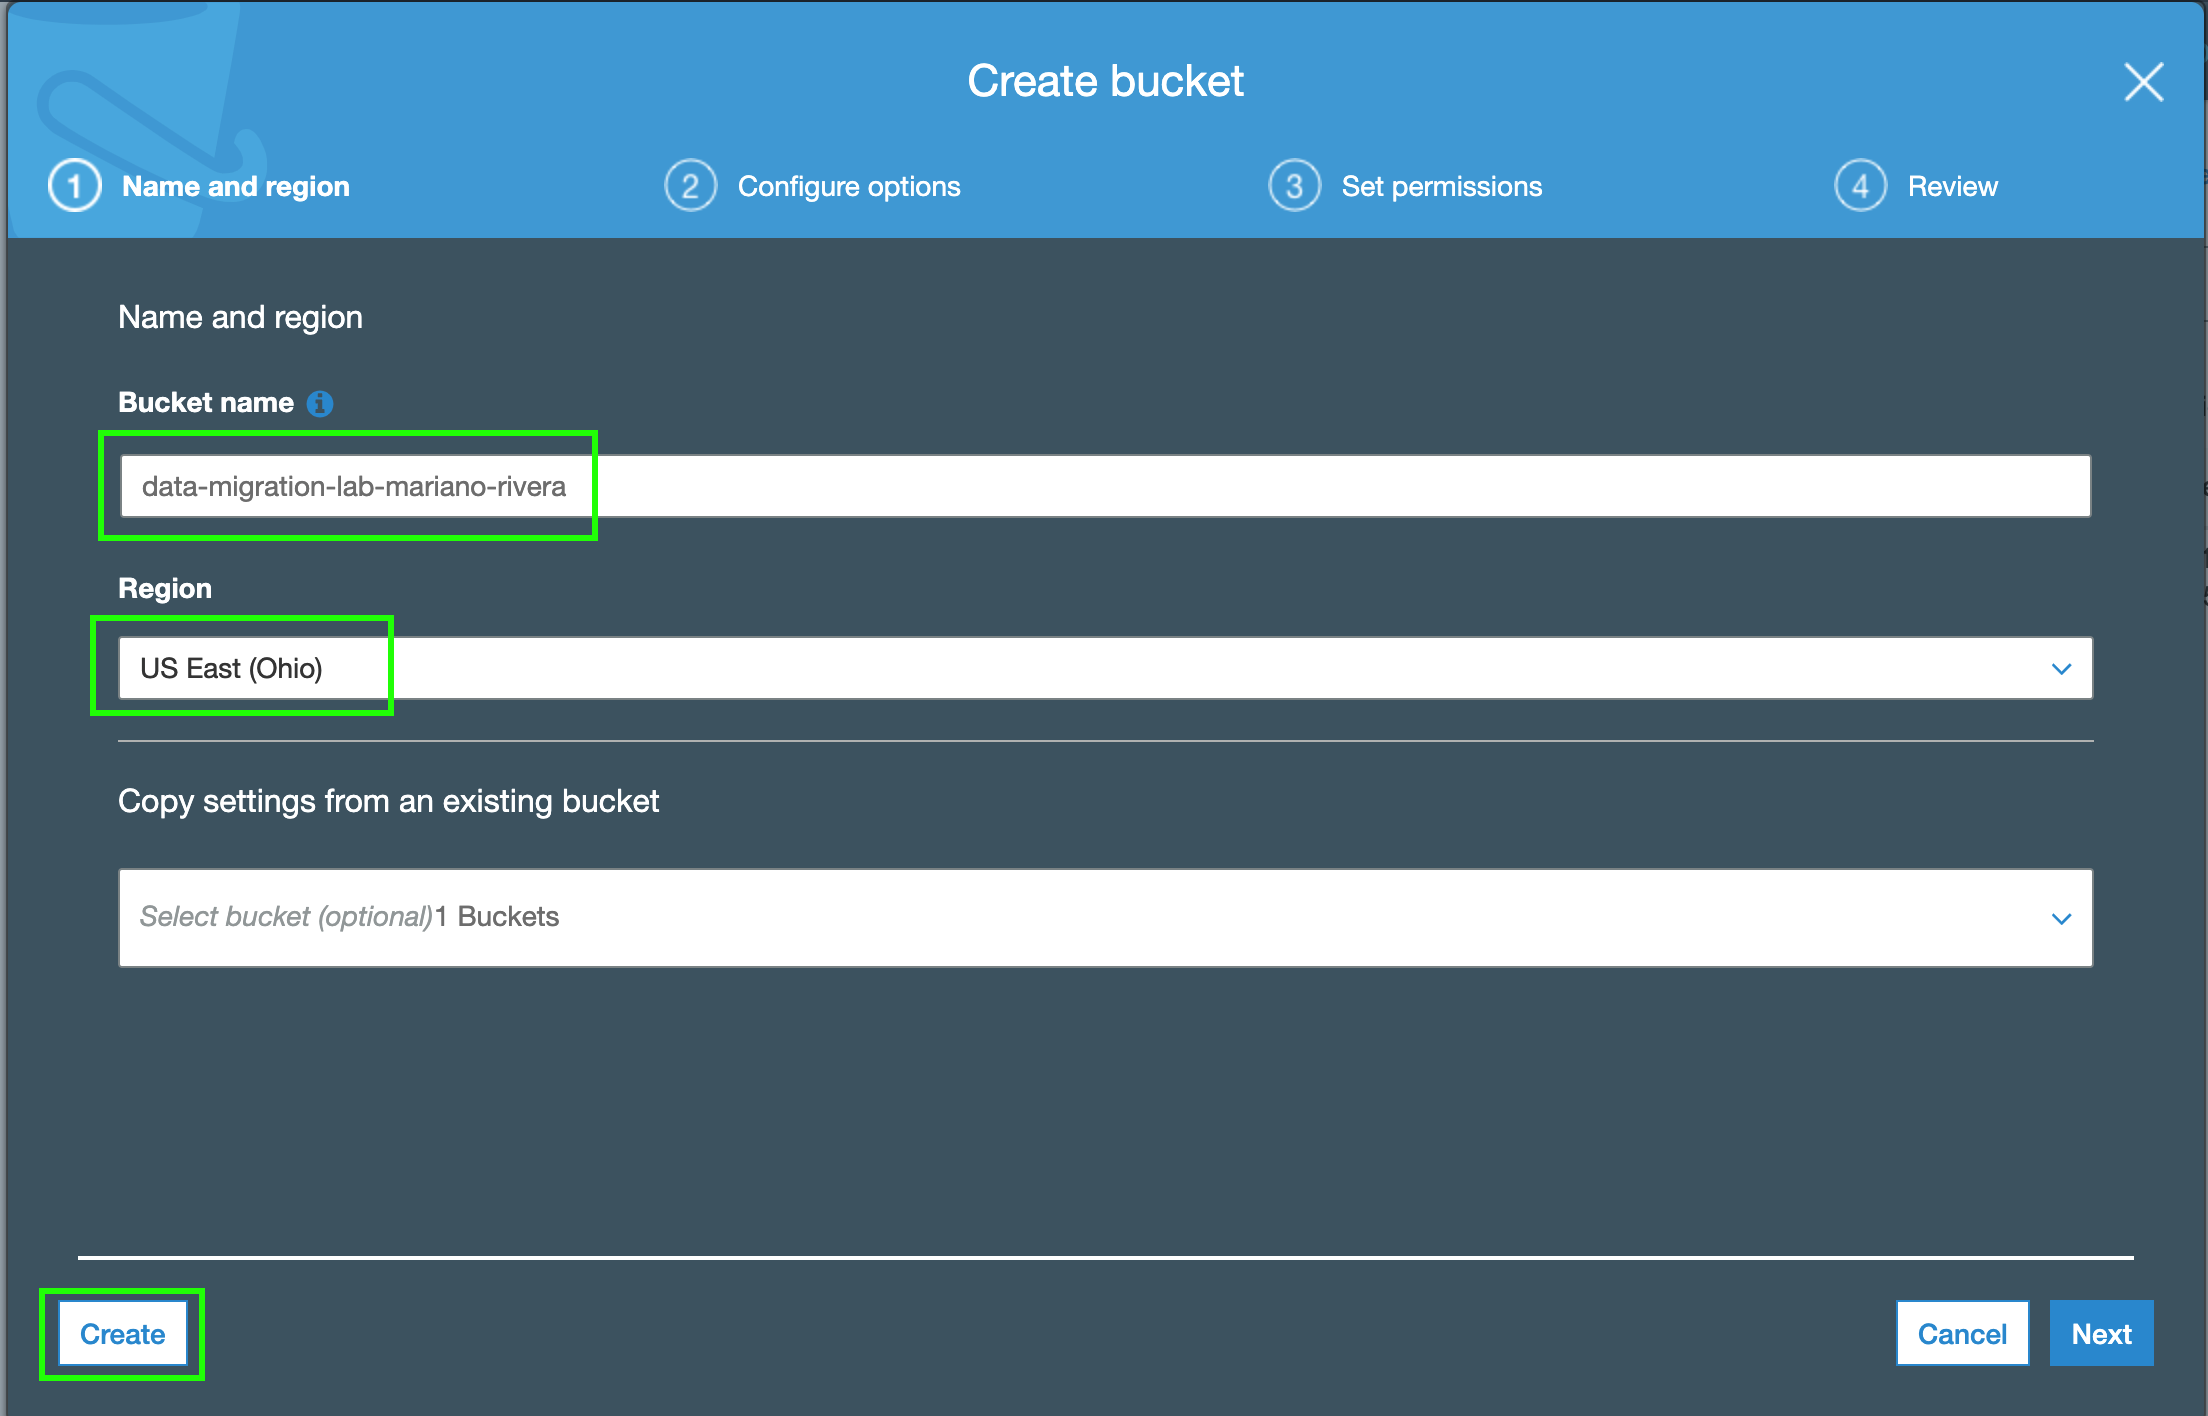
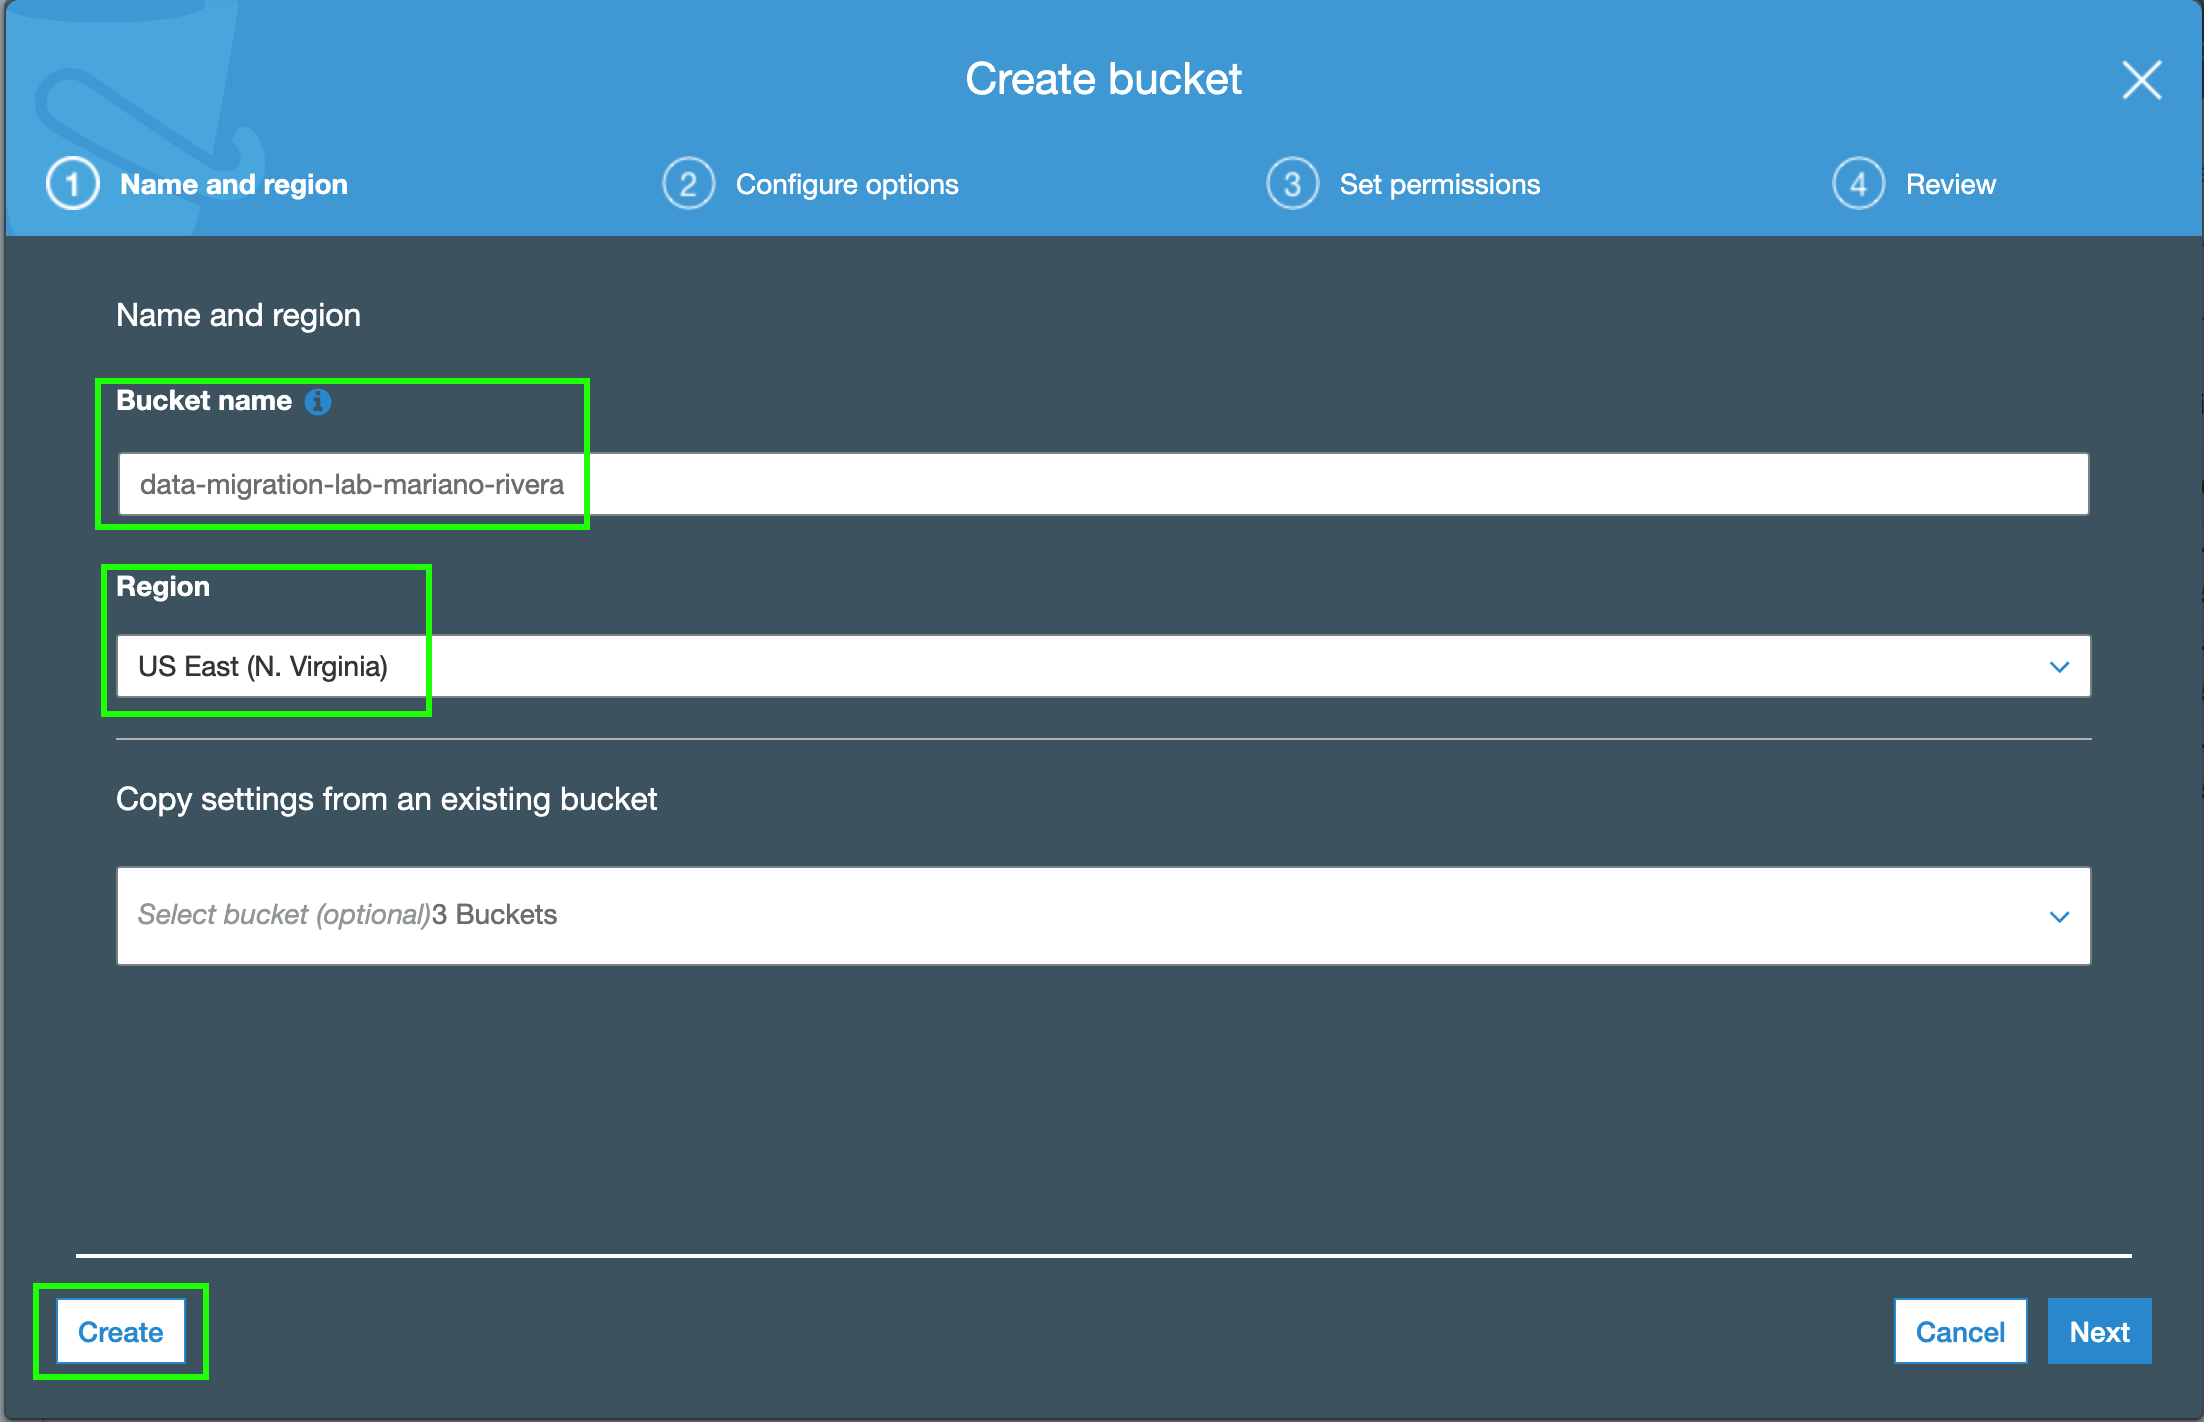
Project

diff --git a/docs/setup.md b/docs/setup.md
@@ -52,7 +52,7 @@ En los siguientes pasos creará un bucket de S3 en donde almacenará la informac
 20. Haga click en **_+ Create bucket_**.
 21. Ingrese un nombre para su bucket en el campo de **_Bucket name_** con la siguiente nomenclatura: 
 **_data-migration-lab-su-nombre_** (ejemplo: **_data-migration-lab-mariano-rivera_**).
-22. En el menú desplegable de **_Region_** seleccione **_US East (Ohio)_**.
+22. En el menú desplegable de **_Region_** asegúrese que la región **_US East (N. Virginia)_**.
 23. Haga click en **_Create_**.
 
 ![Create bucket](images/createbucket.png)
